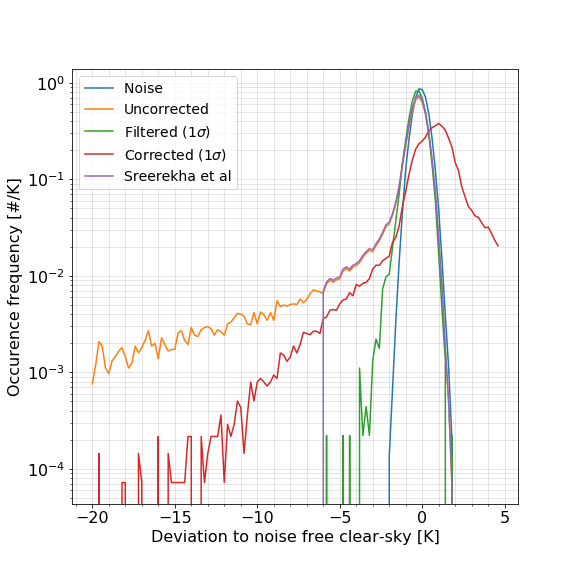
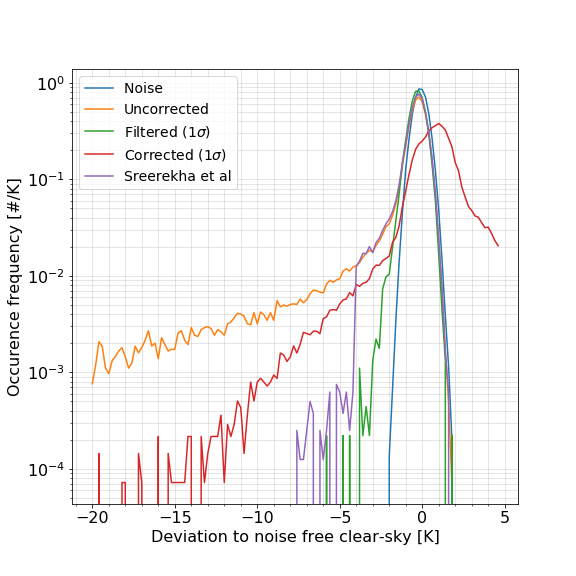
revised statistics Sreerekha et al

diff --git a/Report/aws_325ghz_study.tex b/Report/aws_325ghz_study.tex
@@ -364,15 +364,16 @@ orientation. To apply oriented particles is much more computationally costly
 and could not be accommodated inside the study.
 
 
+\subsection{Dataset formed}
+%
+Using the simulation setup described in previous section, we simulated 125460 cases based on randomly selected CloudSat orbits during August 2015. The input data
+were restricted between $60^{\degree}$S to $60^{\degree}$N. We simulated both clear-sky and all-sky scenarios , and no differentiation was made between the observations over water and land. The simulations were generated for sensor viewing angles from $0^\circ$ to $45^\circ$, but all the results described in this report are based on nadir viewing angle.
+
+Since in this study, the cases with cloud impact are extremely important, we used ``clear-sky thinning'' to improve the representation of the cloudy cases in the dataset. Thinned dataset is a subset of the full dataset with 50\% of the clear-sky cases removed. The size of the thinned dataset is different for each channel. 
+
 \subsection{Validation of simulations}
 \label{sec:validation}
 %
-Using the simulation setup described above, around 77000 cases [* Is this the
-correct final number? *] were simulated
-based on randomly selected CloudSat orbits during August 2015. The input data
-were restricted between $60^{\degree}$S to $60^{\degree}$N. No differentiation
-was made between the observations over water and land. 
-
 \begin{figure}[p]
 	\centering
 	\includegraphics[height=60mm]{ATMS_C16_distribution}\hspace{5mm}% 
@@ -421,16 +422,8 @@ this transitional region is of high interest. For this reason, the PDF for a
 shown. This PDF gives a fair match in the intermediate region (but gives an
 even higher overrepresentation at more strong cloud impacts). This smaller
 dataset will be considered in parallel below, to ensure that no fraction of the
-``cloudy'' cases is not underrepresentated in the results.
+``cloudy'' cases is not underrepresented in the results.
 
-
-\subsection{Dataset formed}
-%
-[* Describe here briefly the final set of simulations used below. Number of
-cases, with and without thinng. Latiude range. If the full dataset was used for
-ATMS comparsion, switch place between 3.3 and 3.4. Probably easiest to say that
-all results below are for nadir. Otherwise this has to be clarified for the
-simple scehem. *]
 
 
 
@@ -853,8 +846,7 @@ to real conditions in the region matching weak cloud impacts and all the
 analyses presented further in this section are based on the thinned dataset.
 
 Figure~\ref{fig:correction:c34-42:thinned} shows the deviation of the uncorrected and
-corrected measurements to their noise-free clear-sky values for the thinned dataset. The results from
-\cite{rekha2012potential} are also shown as reference (see Sec.~\ref{sec:rekha}
+corrected measurements to their noise-free clear-sky values for the thinned dataset. The results from \cite{rekha2012potential} are also shown as reference (see Sec.~\ref{sec:rekha}
 for our assumptions). In order to allow a more direct comparison of our
 approach with \cite{rekha2012potential}, we also include the
 dataset, ``Filtered'', where all cloudy cases are rejected. Apart from the fit
@@ -918,7 +910,7 @@ Table~\ref{tab:correction:stats:34:42:thinned}.
 	filtered($1\sigma$)  	&  -0.13 &  0.68 &              -0.25 &               17.54 \\
 	corrected($1\sigma$) 	&  -0.06 &  0.76 &              -0.46 &                4.99 \\
 	corrected($2\sigma$) 	&  -0.11 &  0.75 &              -0.69 &                4.99 \\
-	sreerekha et al   		&  -0.20 &  0.78 &              -1.00 &               45.36 \\			
+	sreerekha et al         &  -0.16 &  0.71 &              -0.46 &               46.37 \\			
 		\hline
 \end{tabular}
 \caption{Bias, standard deviation (std), and measure of skewness of the error
@@ -930,9 +922,7 @@ Table~\ref{tab:correction:stats:34:42:thinned}.
 The distributions of filtered data are non-Gaussian. The right side of the
 distribution follows measurement noise while the left side is skewed. The
 skewness in the distribution is due to cloud impacts which pass through the
-clear-sky threshold. The higher skewness in ``Sreerekha et al'' is mainly
-beacuse their method only aims at removing cloud impacts above 4\,K.
-Their approach also leads to a high rejection fraction (45.36\%). The filtering
+clear-sky threshold. The skewness in ``Sreerekha et al'' is higher than our approach because their method only aims at removing cloud impacts above 4\,K. Their approach also leads to a high rejection fraction (46.37\%). The filtering
 method introduced here leads to a considerable lower rejection of data
 (17.54\%).
 
@@ -959,8 +949,8 @@ With clear/cloudy classification for $dtb_{cs} = 1\sigma$, around 85\% of the
 total measurements are classified as cloudy and are rejected in pure-filtering.
 Rejecting all the cloudy cases reduces the average bias in the measurements
 from -2.25\,K to -0.21\,K, while with the approach from
-\citet{rekha2012potential} only 45.36\% of the data is rejected and the average
-bias reduces to -0.41\,K. When all the cloudy cases, except the ``too cloudy'',
+\citet{rekha2012potential} only 46.37\% of the data is rejected and the average
+bias reduces to -0.32\,K. When all the cloudy cases, except the ``too cloudy'',
 are corrected, the total bias increases to 0.88\,K. The unusually high fraction
 of cloudy cases and an increase in bias on correction suggests
 misclassification of clear cases as cloudy. Since, the weighting functions of
@@ -989,7 +979,7 @@ uncorrected       		&  -2.25 &  8.94 &              -6.85 &                - \\
 filtered($1\sigma$)  	&  -0.21 &  0.51 &              -0.65 &               85.43 \\
 corrected($1\sigma$) 	&   0.88 &  1.76 &              -1.30 &                5.35 \\
 corrected($2\sigma$) 	&   0.76 &  1.80 &              -1.07 &                5.35 \\
-sreerekha et al   		&  -0.41 &  1.00 &              -2.54 &               45.36 \\
+sreerekha et al   		&  -0.32 &  0.78 &              -1.94 &               46.37 \\
 		\hline
 	\end{tabular}
 	\caption{Same as Table~\ref{tab:correction:stats:34:42:thinned}, but for
@@ -1013,7 +1003,7 @@ sreerekha et al   		&  -0.41 &  1.00 &              -2.54 &               45.36 
 		filtered($1\sigma$)  	&  -0.26 &  0.77 &             -16.33 &               72.06 \\
 		corrected($1\sigma$) 	&   0.43 &  1.70 &             -14.68 &                7.93 \\
 		corrected($2\sigma$) 	&   0.25 &  1.72 &             -13.86 &                7.93 \\
-		sreerekha et al   		&  -0.41 &  1.00 &              -2.54 &               45.36 \\
+		 sreerekha et al   		&  -0.32 &  0.78 &              -1.94 &               46.37 \\
 		\hline
 	\end{tabular}
 	\caption{Same as Table~\ref{tab:correction:stats:34:42:thinned}, but for channel combination: AWS-32 and AWS-41.   }
@@ -1031,7 +1021,7 @@ sreerekha et al   		&  -0.41 &  1.00 &              -2.54 &               45.36 
 		filtered($1\sigma$)  	&  -0.13 &  0.49 &              -0.40 &               26.18 \\
 		corrected($1\sigma$) 	&  -0.05 &  0.59 &              -0.85 &                6.88 \\
 		corrected($2\sigma$) 	&  -0.11 &  0.57 &              -1.17 &                6.88 \\
-		sreerekha et al   		&  -0.29 &  0.78 &              -2.22 &               45.36 \\
+		sreerekha et al         &  -0.23 &  0.65 &              -1.52 &               46.37 \\
 		\hline
 	\end{tabular}
 	\caption{Same as Table~\ref{tab:correction:stats:34:42:thinned}, but for channel combination: AWS-33 and AWS-41.   }
@@ -1044,12 +1034,12 @@ sreerekha et al   		&  -0.41 &  1.00 &              -2.54 &               45.36 
 		Dataset  		  &   bias &   std &   skewness & fraction \\
 		&   [K]  &   [K] & [-] & rejected [\%]\\
 		\hline
-		Noise           	  &  0.00 &  0.63 &               0.00 &                -\\
+		Noise           	  &  0.00  &  0.63 &               0.00 &                -\\
 		uncorrected     	  &  -0.83 &  4.50 &             -10.85 &                - \\
 		filtered($1\sigma$)	  &  -0.13 &  0.68 &              -0.46 &               21.30 \\
 		corrected($1\sigma$)  &   0.01 &  0.90 &              -1.65 &                2.86 \\
 		corrected($2\sigma$)  &  -0.09 &  0.83 &              -2.35 &                2.86 \\
-		sreerekha et al  	  &  -0.13 &  0.70 &              -0.54 &               45.36 \\
+		sreerekha et al       &  -0.11 &  0.67 &              -0.22 &               46.37 \\
 		\hline
 	\end{tabular}
 	\caption{Same as Table~\ref{tab:correction:stats:34:42:thinned}, but for channel combination: AWS-35 and AWS-43.}
@@ -1067,7 +1057,7 @@ sreerekha et al   		&  -0.41 &  1.00 &              -2.54 &               45.36 
 		filtered($1\sigma$)  &  -0.11 &  0.92 &              -0.13 &                7.38 \\
 		corrected($1\sigma$) &  -0.07 &  0.93 &              -0.07 &                2.50 \\
 		corrected($2\sigma$) &  -0.11 &  0.94 &              -0.19 &                2.50 \\
-		sreerekha et al 	 &  -0.09 &  0.91 &              -0.10 &               45.36 \\
+		sreerekha et al      &  -0.08 &  0.90 &              -0.02 &               46.37 \\
 		\hline
 	\end{tabular}
 	\caption{Same as Table~\ref{tab:correction:stats:34:42:thinned}, but for channel combination: AWS-36 and AWS-43.   }
@@ -1079,8 +1069,8 @@ The correction scheme can also be extended to other combinations of 183GHz and
 AWS-41; AWS-33 and AWS-41; AWS-35 and AWS-43; AWS-36 and AWS-43.
 
 Table~\ref{tab:correction:stats:32:41} shows the statistics when AWS-32 is
-corrected using AWS-41. The statistics of the filtered dataset are better than
-the approach by \cite{rekha2012potential}, while the corrected data have poorer
+corrected using AWS-41. The bias and standard deviation of the filtered dataset are better than
+the approach by \cite{rekha2012potential}. However, the results from ``sreerekha et al'' have lower skewness. After correction, the corrected data have poorer
 statistics. This is not surprising as the weighting function match between
 AWS-32 and AWS-41 is poor. The correction using $2\sigma$ as threshold works
 better $1\sigma$. This is an exception, the reverse is valid for AWS-34/42 (as
